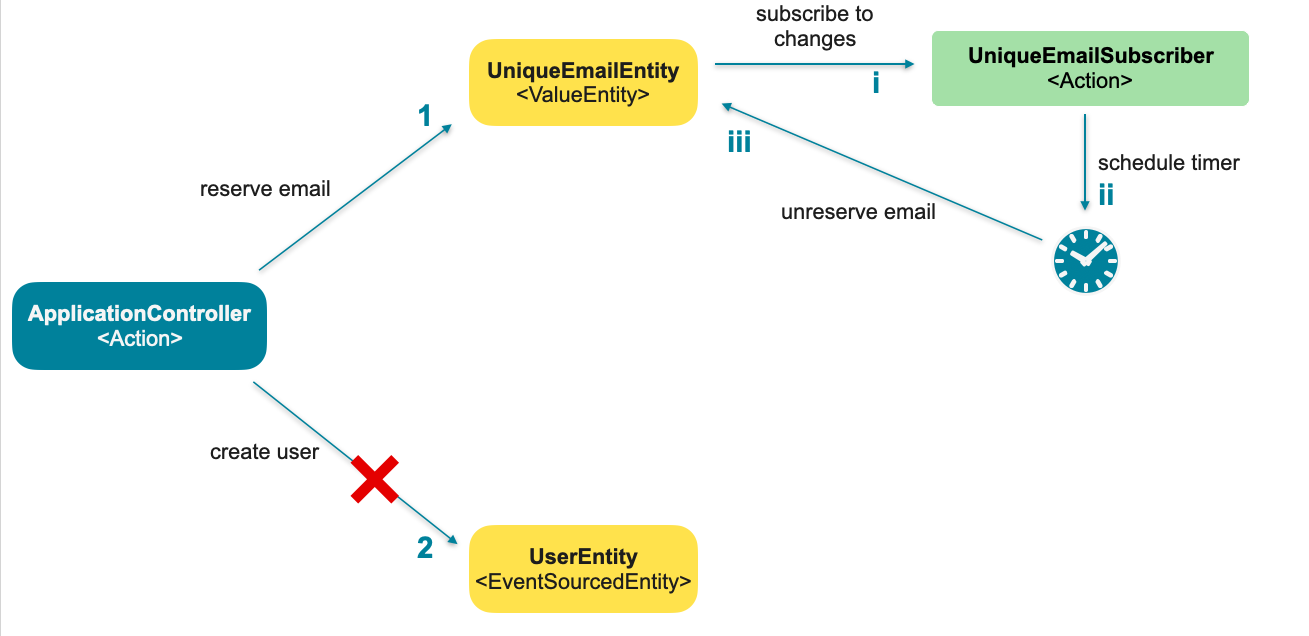
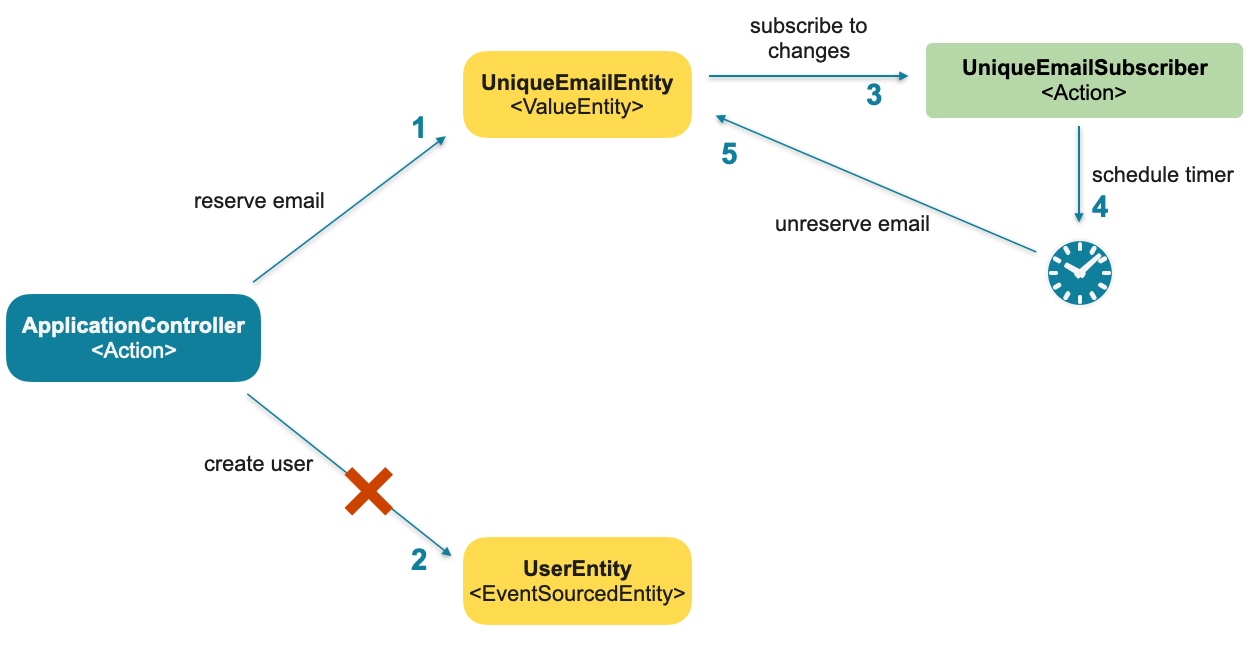
updated diagrams

diff --git a/samples/java-spring-choreography-saga-quickstart/README.md b/samples/java-spring-choreography-saga-quickstart/README.md
@@ -29,8 +29,12 @@ In an event-sourced application, the events emitted by an entity are stored in a
 
 A **Choreography Saga** can be implemented as a solution to this challenge. In addition to the `UserEntity`, we can implement a second entity to act as a barrier. This entity, called the `UniqueEmailEntity`, will be responsible for ensuring that each email address is associated with only one user.  The unique ID of the `UniqueEmailEntity` will be the email address itself. Thus, we can guarantee that there is only one instance of this entity per email.
 
-When a request to create a new `UserEntity` is received, we first attempt to reserve the email address using the 
-`UniqueEmailEntity`. If it's not already in use, we proceed to create the `UserEntity`. Once the `UserEntity` has been created, the `UniqueEmailEntity` is marked as CONFIRMED. If the email address is already in use, the request to create the `UserEntity` will fail.
+When a request to create a new `UserEntity` is received, we first attempt to reserve the email address using the`UniqueEmailEntity`. If it's not already in use, we proceed to create the `UserEntity`. Once the `UserEntity` has been created, the `UniqueEmailEntity` is marked as CONFIRMED. If the email address is already in use, the request to create the `UserEntity` will fail.
+
+To achieve this behaviour, we will implement two Kalix Actions that will subscribe to events and state changes from 
+the `UserEntity` and `UniqueEmailEntity` respectively and react to them. The Actions will be responsible for 
+converging the system to a consistent state. The components will react to the facts happening in the system in an 
+autonomous way, much like performers in a choreographed dance. Hence, the name **Choreography Saga**.
 
 ### Successful Scenario
 
@@ -40,10 +44,10 @@ The sunny day scenario is illustrated in the following diagram:
 
 All incoming requests are handled by the `ApplicationController` which is implemented using a Kalix Action. 
 
-1. upon receiving a request to create a new User, the `ApplicationController` will first reserve the email.
-2. it will then create the User. 
-   1. the `UserEventsSubscriber` Action listens to the User's event 
-   2. and mark the UniqueEmail entity as soon as it 'sees' that a User has been created.
+1. Upon receiving a request to create a new User, the `ApplicationController` will first reserve the email.
+2. It will then create the User. 
+3. The `UserEventsSubscriber` Action is listening to the User's event.
+4. The `UniqueEmailEntity` is confirmed as soon as the subscriber 'sees' that a User has been created.
       
 ### Failure Scenario
 
@@ -55,12 +59,12 @@ The failure scenario is illustrated in the following diagram:
 
 ![Failure Flow](flow-failure.png?raw=true)
 
-1. upon receiving a request to create a new User, the `ApplicationController` will first reserve the email.
-   1. in the background, the `UniqueEmailSubscriber` Action listens to state changes from `UniqueEmailEntity`
-   2. when it detects that an email was reserved it schedules a timer to un-reserve it after a certain amount of time. 
-   3. when the timer fires, the email is un-reserved if the `UniqueEmailEntity` is still in RESERVED state.
-2. then it tries to create the User, but it fails. As such, the email will never be confirmed, but the timer 
-   will unlock it.
+1. Upon receiving a request to create a new User, the `ApplicationController` will first reserve the email.
+2. Then it tries to create the User, but it fails. As such, the email will never be confirmed.
+3. In the background, the `UniqueEmailSubscriber` Action is listening to state changes from `UniqueEmailEntity`.
+4. When it detects that an email has been reserved, it schedules a timer to un-reserve it after a certain amount of 
+   time.
+5. When the timer fires, the email is un-reserved if the `UniqueEmailEntity` is still in RESERVED state.
 
 > [!NOTE]
 > Everything on the side of the `UniqueEmailSubscriber` is happening in the background and independent of the success or failure of the User creation.
